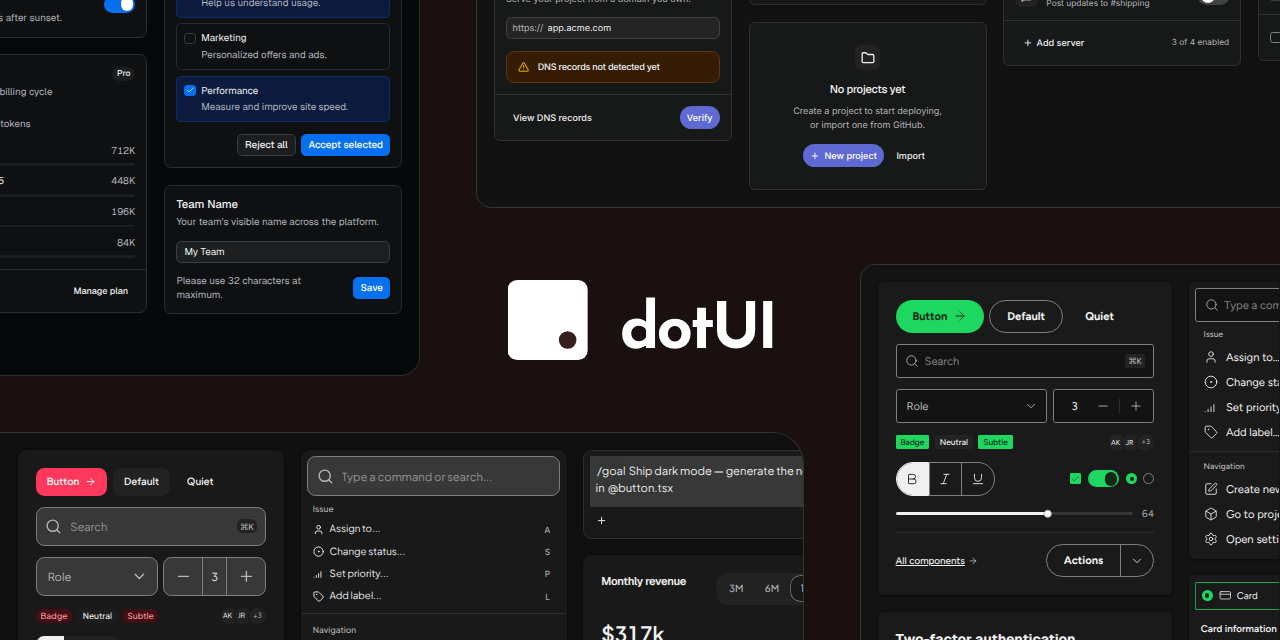
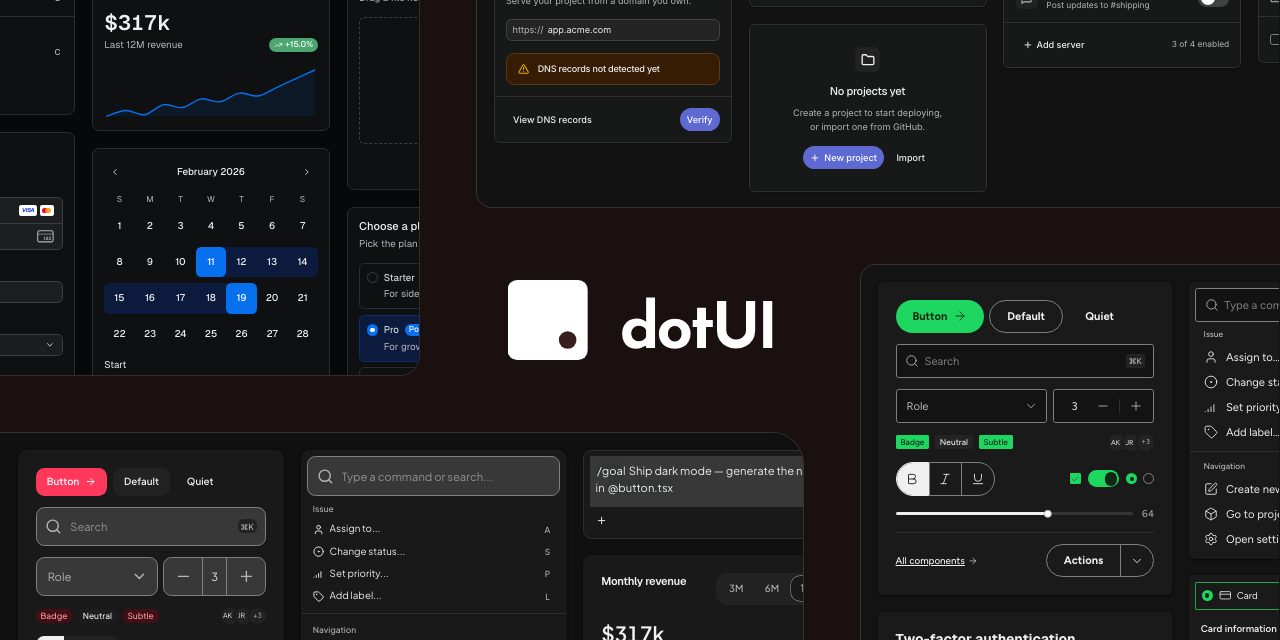
feat(brand): frame the revenue card in the cover's Origin container

diff --git a/www/src/modules/marketing/cover.tsx b/www/src/modules/marketing/cover.tsx
@@ -20,8 +20,8 @@ const fromCenter = (px: number) => `calc(50% + ${px}px)`
 const SLOTS: {
   preset: string
   inset: Record<Side, number | string>
-  /** Scrolls the cards canvas to its end on these axes, cropping it at the image edge. */
-  scrollEnd?: { x?: boolean; y?: boolean }
+  /** The cards canvas point at the window's top-left, in canvas pixels. */
+  scroll?: [number, number]
 }[] = [
   {
     preset: "origin",
@@ -31,7 +31,7 @@ const SLOTS: {
       right: fromCenter(HALF_W),
       bottom: fromCenter(GUTTER - HALF_H),
     },
-    scrollEnd: { x: true, y: true },
+    scroll: [622, 212],
   },
   {
     preset: "linear",
@@ -41,7 +41,7 @@ const SLOTS: {
       left: fromCenter(GUTTER - HALF_W),
       bottom: fromCenter(HALF_H),
     },
-    scrollEnd: { y: true },
+    scroll: [0, 1611],
   },
   {
     preset: "spotify",
@@ -63,7 +63,11 @@ const SLOTS: {
   },
 ]
 
-function PresetContainer({ preset, inset, scrollEnd }: (typeof SLOTS)[number]) {
+function PresetContainer({
+  preset,
+  inset,
+  scroll = [0, 0],
+}: (typeof SLOTS)[number]) {
   const designSystem = resolvePreset(preset)
   // Bleeding sides pad back to the visible edge; the canvas pads itself.
   const pad = (side: Side) => (inset[side] === BLEED ? -BLEED : 0)
@@ -89,15 +93,7 @@ function PresetContainer({ preset, inset, scrollEnd }: (typeof SLOTS)[number]) {
         className="absolute overflow-hidden rounded-2xl border border-white/15 bg-bg [&_*]:[content-visibility:visible]!"
       >
         <div
-          style={{
-            zoom: 0.7,
-            ...(scrollEnd && {
-              position: "absolute",
-              width: "max-content",
-              [scrollEnd.x ? "right" : "left"]: 0,
-              [scrollEnd.y ? "bottom" : "top"]: 0,
-            }),
-          }}
+          style={{ zoom: 0.7, marginLeft: -scroll[0], marginTop: -scroll[1] }}
         >
           <CardsCanvas />
         </div>
